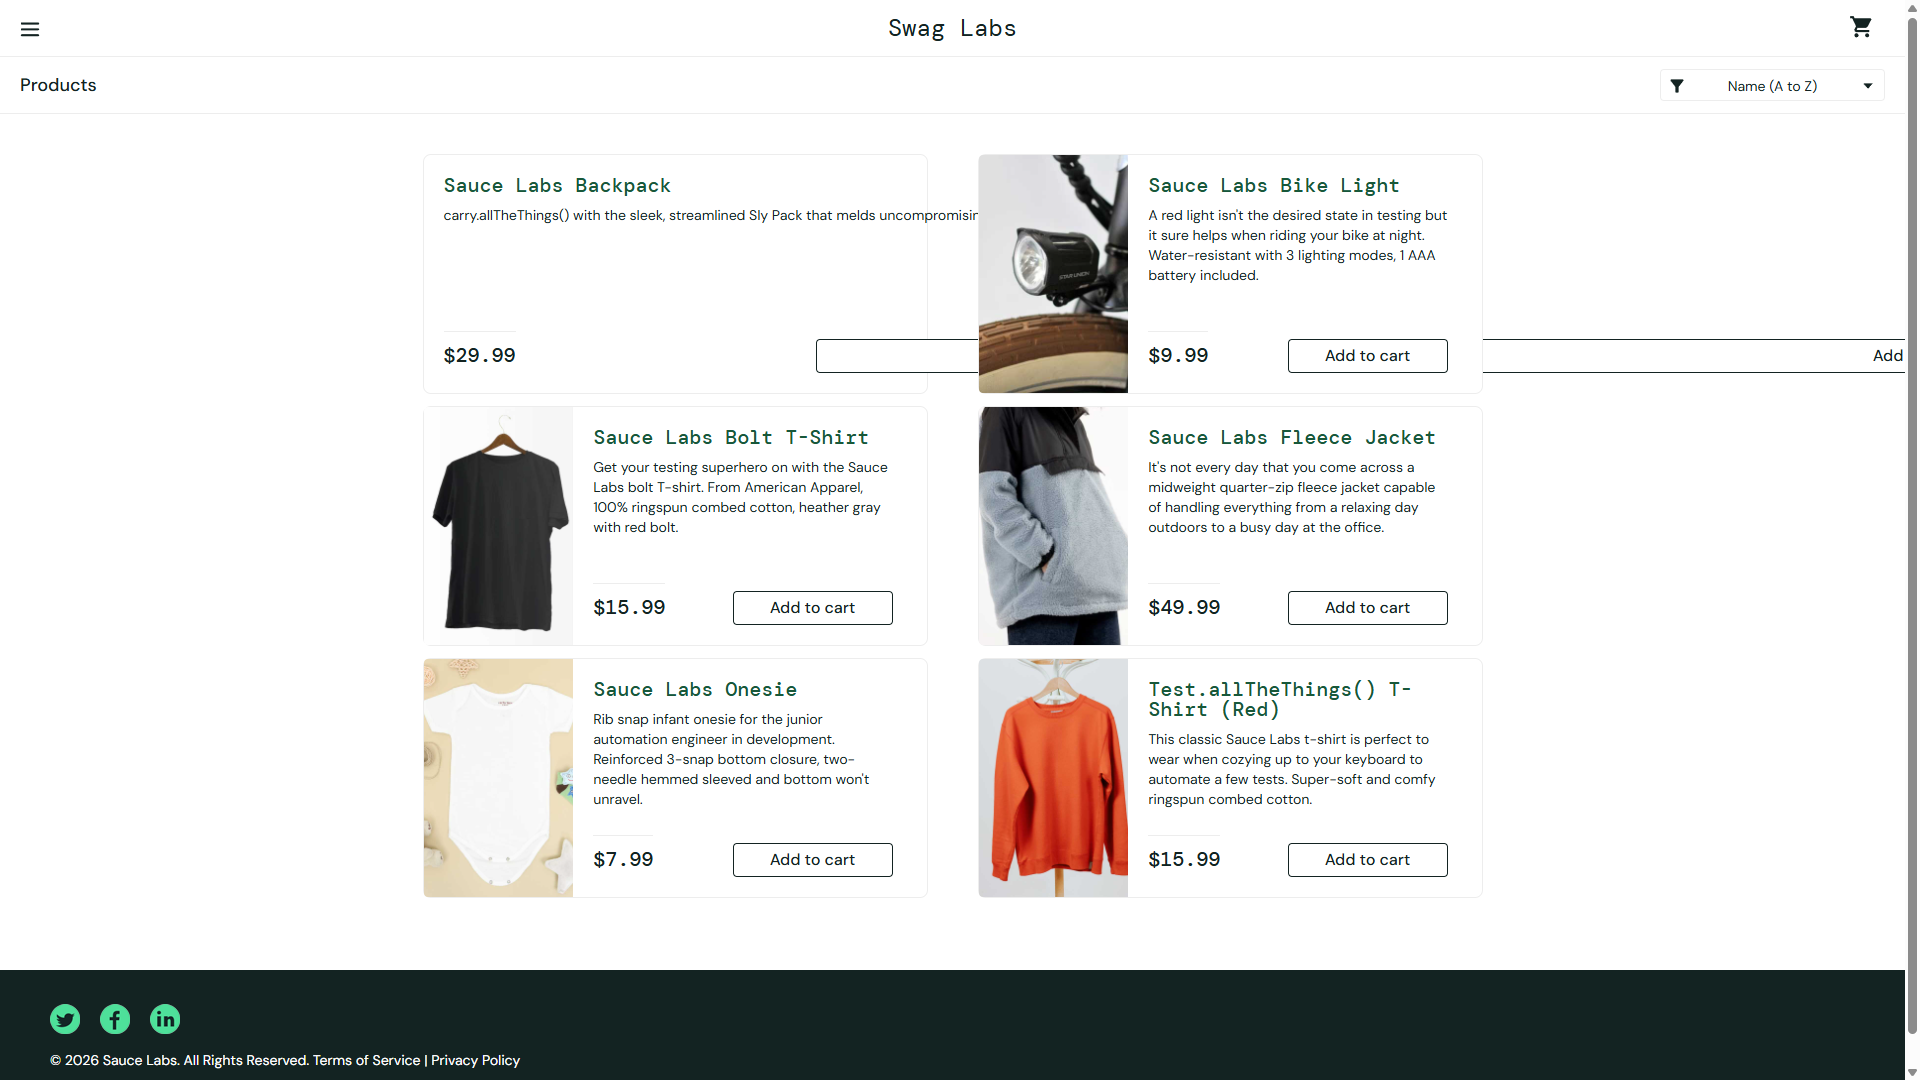
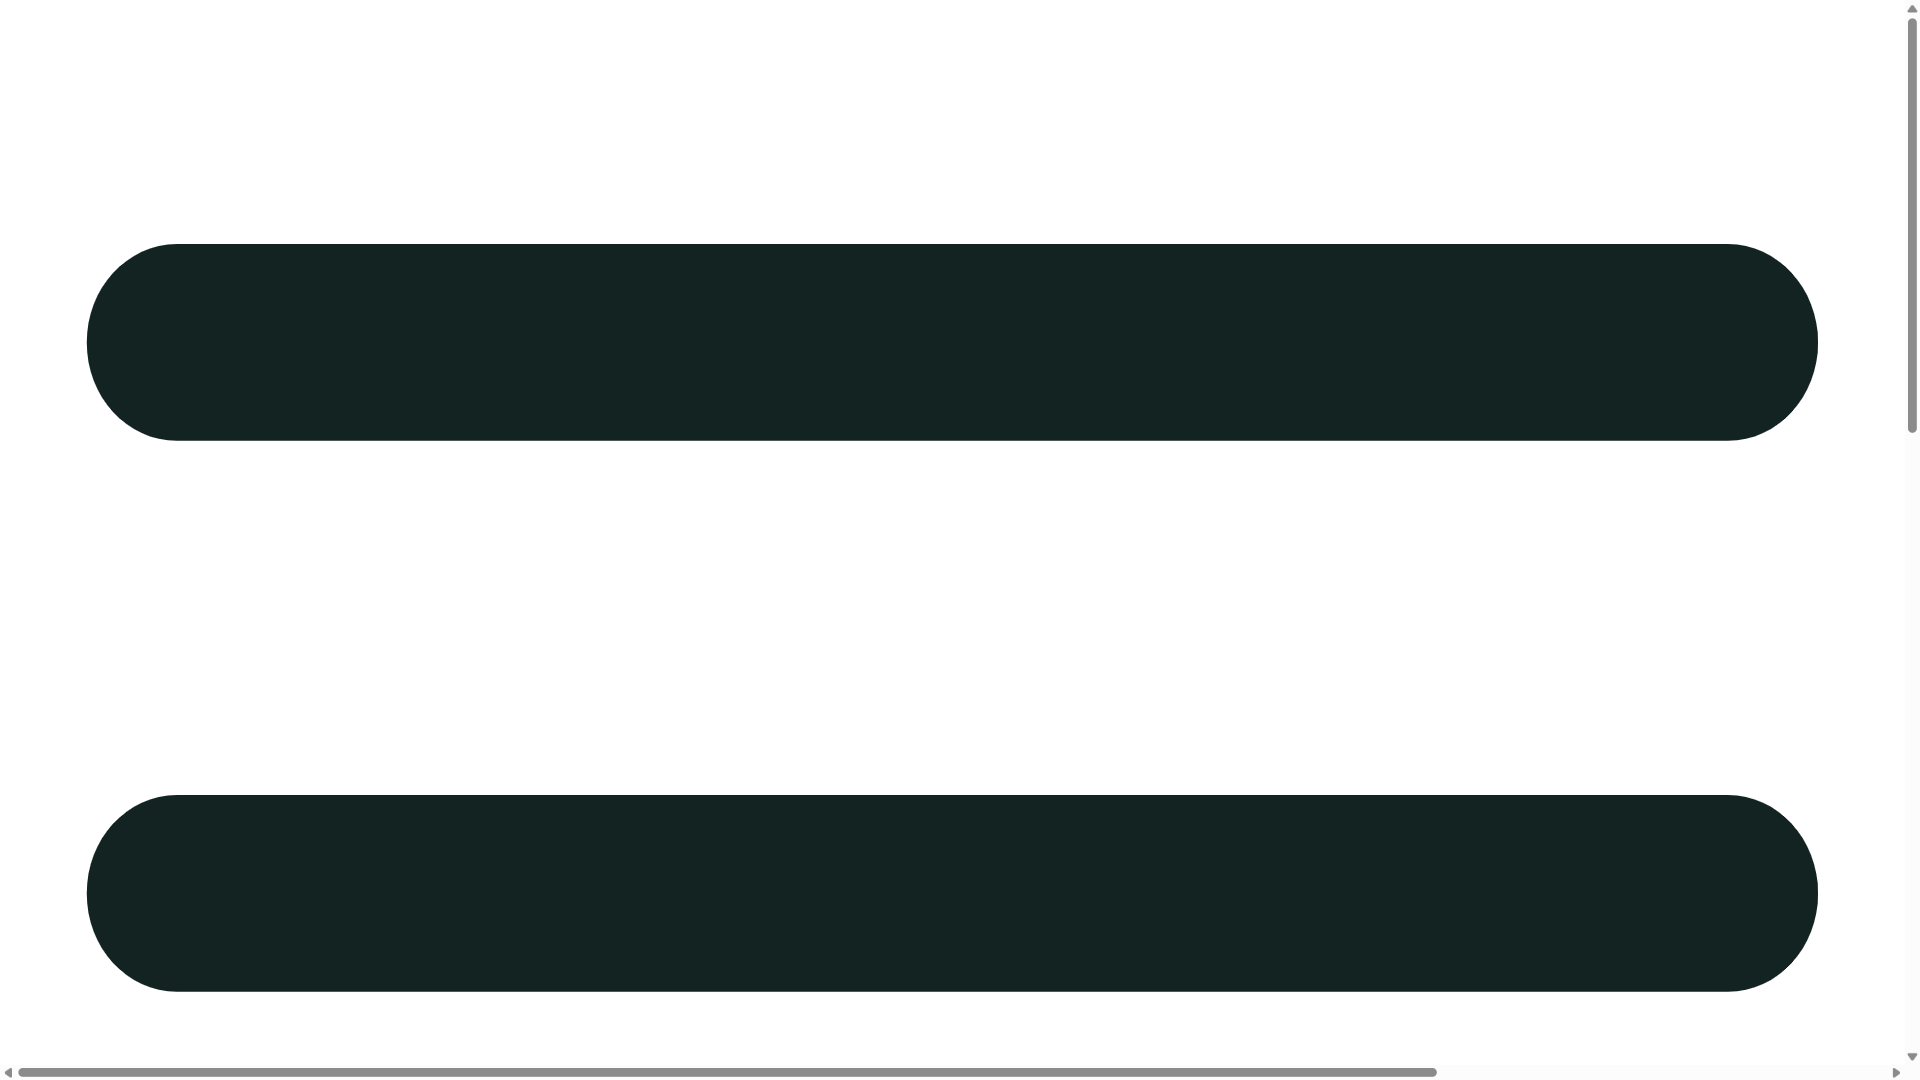
fix(ml): update ML/README.md and fix self-healing logic

diff --git a/screenshots/broken/broken-button-clip/assets/broken-button-clip.html b/screenshots/broken/broken-button-clip/assets/broken-button-clip.html
@@ -1,15 +1,15 @@
-<!DOCTYPE html><html lang="en"><head>
-  <meta charset="utf-8">
-  <link rel="icon" href="/favicon.ico">
-  <meta name="robots" content="noindex">
-  <meta name="viewport" content="width=device-width, initial-scale=1">
-  <meta name="theme-color" content="#ffffff">
-  <meta name="description" content="Sauce Labs Swag Labs app">
-  <link rel="apple-touch-icon" href="/icon-192x192.png">
-  <link rel="manifest" href="/manifest.json">
-
-  <!-- Single Page Apps for GitHub Pages -->
-  <script type="text/javascript">
+<!DOCTYPE html>
+<html lang="en"><head>
+<meta charset="utf-8"/>
+<link href="/favicon.ico" rel="icon"/>
+<meta content="noindex" name="robots"/>
+<meta content="width=device-width, initial-scale=1" name="viewport"/>
+<meta content="#ffffff" name="theme-color"/>
+<meta content="Sauce Labs Swag Labs app" name="description"/>
+<link href="/icon-192x192.png" rel="apple-touch-icon"/>
+<link href="/manifest.json" rel="manifest"/>
+<!-- Single Page Apps for GitHub Pages -->
+<script type="text/javascript">
     // https://github.com/rafgraph/spa-github-pages
     (function(l) {
       if (l.search[1] === '/' ) {
@@ -22,11 +22,10 @@
       }
     }(window.location))
   </script>
-
-  <link rel="stylesheet" href="https://fonts.googleapis.com/css2?family=DM+Mono:wght@400;500&amp;family=DM+Sans:wght@400;500">
-  <title>Swag Labs</title>
-  <script type="module" crossorigin="" src="/assets/index-XyuNVFOR.js"></script>
-  <link rel="stylesheet" crossorigin="" href="/assets/index-Co7SA-g_.css">
+<link href="https://fonts.googleapis.com/css2?family=DM+Mono:wght@400;500&amp;family=DM+Sans:wght@400;500" rel="stylesheet"/>
+<title>Swag Labs</title>
+<script crossorigin="" src="/assets/index-XyuNVFOR.js" type="module"></script>
+<link crossorigin="" href="/assets/index-Co7SA-g_.css" rel="stylesheet"/>
 <style type="text/css">
         .inventory_item:first-child .btn_inventory {
           width: 2200px !important;
@@ -35,9 +34,6 @@
         }
       </style></head>
 <body>
-  <noscript>You need to enable JavaScript to run this app.</noscript>
[1 lines of base64/hex data omitted]
-
-
-
+<noscript>You need to enable JavaScript to run this app.</noscript>
[1 lines of base64/hex data omitted]
 </body></html>

diff --git a/ML/vlm_test.py b/ML/vlm_test.py
@@ -21,23 +21,24 @@ NUM_TILES = 3
 TILE_OVERLAP = 100
 SEVERITY_RANK = {"Minor": 1, "Major": 2, "Critical": 3}
 
-HTML_PATH = "screenshots/broken/broken-button-clip.html"
+HTML_PATH = "screenshots/broken/broken-button-clip/assets/broken-button-clip.html"
 AFTER_SCREENSHOT_PATH = "ML/images/after-fix.png"
 LOG_PATH = "ML/self_healing_log.json"
 
 image_paths = [
-    "ML/images/broken-button-clip.png",
-    "screenshots/product-page.png",
-    "screenshots/cart-multi-item.png",
-    "screenshots/confirmation-page.png",
+    "screenshots/broken/broken-button-clip/assets/broken-button-clip.png",
+    "screenshots/clean/product-page/assets/product-page.png",
+    "screenshots/clean/cart-multi-item/assets/cart-multi-item.png",
+    "screenshots/clean/confirmation-page/assets/confirmation-page.png",
 ]
 
 HTML_FOR_IMAGE = {
-    "ML/images/broken-button-clip.png": "screenshots/broken/broken-button-clip.html",
-    "screenshots/product-page.png": "screenshots/product-page.html",
-    "screenshots/cart-multi-item.png": "screenshots/cart-multi-item.html",
-    "screenshots/confirmation-page.png": "screenshots/confirmation-page.html",
+    "screenshots/broken/broken-button-clip/assets/broken-button-clip.png": "screenshots/broken/broken-button-clip/assets/broken-button-clip.html",
+    "screenshots/clean/product-page/assets/product-page.png": "screenshots/clean/product-page/assets/product-page.html",
+    "screenshots/clean/cart-multi-item/assets/cart-multi-item.png": "screenshots/clean/cart-multi-item/assets/cart-multi-item.html",
+    "screenshots/clean/confirmation-page/assets/confirmation-page.png": "screenshots/clean/confirmation-page/assets/confirmation-page.html",
 }
+
 REQUIRED_FIELDS = [
     "bug_found",
     "description",
@@ -46,6 +47,23 @@ REQUIRED_FIELDS = [
     "fix",
 ]
 
+# Words that indicate a defect is still present, used to catch VLM
+# self-contradiction: bug_still_present=False but explanation still
+# describes a visible defect.
+BUG_INDICATOR_PHRASES = [
+    "cut off", "cut-off", "clipped", "clipping", "hidden", "not visible",
+    "overflow", "overflowing", "stretched", "broken", "truncated",
+    "overlapping", "misaligned", "obscured", "not fully visible",
+]
+
+
+# Classes/keywords that belong to unrelated UI elements (nav, menu, header)
+# — if the VLM's selector for a PRODUCT-CARD bug contains these, it has
+# almost certainly hallucinated a path by mixing unrelated DOM branches.
+UNRELATED_SELECTOR_KEYWORDS = [
+    "burger", "bm-burger", "menu_button", "hamburger",
+    "primary_header", "header_container", "nav_",
+]
 
 # -------------------------------------------------
 # HTML Loader
@@ -78,6 +96,9 @@ IMPORTANT CONTEXT: The visual defect being tested is located in the
 PRODUCT LISTING area (the grid of items below the header), specifically
 on the FIRST product card, NOT in the page header, hamburger menu icon,
 or navigation bar. Focus your visual inspection on the product grid area.
+This context applies ONLY when a real defect is visible - if the
+screenshot shows a normal, undamaged page, report no bug regardless
+of this context.
 
 LOOK SPECIFICALLY FOR:
 - Horizontal layout overflow or stretched/clipped button borders
@@ -424,6 +445,54 @@ Schema (types only - do not copy these placeholder values):
 
 
 # -------------------------------------------------
+# Contradiction Guard — VLM's boolean vs its own explanation
+# -------------------------------------------------
+def sanity_check_selector(fix: dict) -> tuple[bool, str]:
+    """
+    Rejects selectors that mix unrelated DOM branches (e.g. hamburger-menu
+    classes combined with a product-card class) before we even try to apply
+    them. Returns (is_valid, reason).
+    """
+    selector = (fix.get("selector") or "").lower()
+
+    if not selector:
+        return False, "Selector is empty."
+
+    matched = [kw for kw in UNRELATED_SELECTOR_KEYWORDS if kw in selector]
+    if matched:
+        return False, (
+            f"Selector contains unrelated navigation/menu keywords {matched} "
+            f"combined with a product-card path — likely hallucinated by mixing "
+            f"two unrelated DOM branches."
+        )
+
+    return True, ""
+def sanity_check_evaluation(evaluation: dict) -> dict:
+    """
+    Guards against VLM self-contradiction: bug_still_present=False but the
+    explanation text itself describes a defect (e.g. "text is cut off").
+    If a contradiction is found, flip bug_still_present to True — fail-safe,
+    we never want a silently-wrong FIXED status pushed to a PR.
+    """
+    explanation = (evaluation.get("explanation") or "").lower()
+    bug_still_present = evaluation.get("bug_still_present", False)
+
+    if not bug_still_present:
+        matched = [p for p in BUG_INDICATOR_PHRASES if p in explanation]
+        if matched:
+            print(
+                f"   ⚠  Contradiction detected: bug_still_present=False but "
+                f"explanation mentions {matched}. Overriding to True (fail-safe)."
+            )
+            evaluation = dict(evaluation)
+            evaluation["bug_still_present"] = True
+            evaluation["contradiction_flagged"] = True
+            evaluation["contradiction_reason"] = f"Explanation contains: {matched}"
+
+    return evaluation
+
+
+# -------------------------------------------------
 # Logging
 # -------------------------------------------------
 def log_self_healing_result(entry):
@@ -523,7 +592,7 @@ def audit_image(img):
 # -------------------------------------------------
 if __name__ == "__main__":
 
-    bug_screenshot = "ML/images/broken-button-clip.png"
+    bug_screenshot = "screenshots/broken/broken-button-clip/assets/broken-button-clip.png"
 
     if os.path.exists(HTML_PATH):
         print(f"Refreshing {bug_screenshot} from current {HTML_PATH} ...")
@@ -586,8 +655,7 @@ if __name__ == "__main__":
 
             print("\n1. Applying fix:")
             print(json.dumps(fix, indent=2))
-
-            try:
+try:
                 apply_css_fix(HTML_PATH, fix)
 
                 print("\n2. Taking after-fix screenshot...")
@@ -598,6 +666,7 @@ if __name__ == "__main__":
                     AFTER_SCREENSHOT_PATH,
                     detection["description"],
                 )
+                evaluation = sanity_check_evaluation(evaluation)
                 print(json.dumps(evaluation, indent=2))
 
                 status = "NOT_FIXED" if evaluation.get("bug_still_present") else "FIXED"
@@ -614,5 +683,21 @@ if __name__ == "__main__":
                 print(f"SELF-HEALING RESULT: {status}")
                 print("==============================")
 
-            except Exception as e:
+except Exception as e:
                 print(f"❌ Self-healing error: {e}")
+
+                # Log the failure too, so bad selectors show up in the
+                # audit trail instead of silently disappearing.
+                log_self_healing_result({
+                    "html_path": HTML_PATH,
+                    "original_bug": detection["description"],
+                    "fix_applied": fix,
+                    "status": "APPLY_FAILED",
+                    "evaluation": None,
+                    "error": str(e),
+                })
+
+                print("\n==============================")
+                print("SELF-HEALING RESULT: APPLY_FAILED")
+                print("==============================")
+                

diff --git a/ML/README.md b/ML/README.md
@@ -284,3 +284,18 @@ validates every VLM claim against the actual page HTML before a PR is
 generated. Elements the model names that don't exist in the DOM are
 rejected. This means an unreliable VLM does not translate into an
 unreliable pipeline — the system doesn't trust model output blindly.
+# Visual Bug Detection & Self-Healing Agent
+
+An automated QA visual auditing and self-healing engine driven by Vision-Language Models (Qwen2.5-VL 7B / Ollama) and Playwright.
+
+## 🛠 Features & Pipeline
+
+1. **Dynamic Image Tiling**: Automatically checks resolution and splits large screenshots into overlapping tiles for high-resolution visual analysis.
+2. **Context-Aware Visual Auditing**: Analyzes DOM hierarchy alongside screenshots to identify visual bugs (clipping, overflow, alignment issues).
+3. **Automated CSS Remediation**: Parses target CSS selectors, applies patch rules directly to the HTML using BeautifulSoup, and re-renders the DOM via Playwright.
+4. **Contradiction Guard & Validation Engine**:
+   - **Selector Sanity Guard**: Prevents cross-branch DOM hallucination (e.g., mixing nav-bar elements with product grid items).
+   - **Self-Contradiction Check**: Validates VLM reasoning against its boolean status to catch false-positive fixes before deployment.
+5. **Audit Logging**: Persists execution status (`FIXED`, `NOT_FIXED`, `REJECTED_SELECTOR`, `APPLY_FAILED`) to `ML/self_healing_log.json`.
+
+## 🚀 Execution & Self-Healing Status Flowchart
